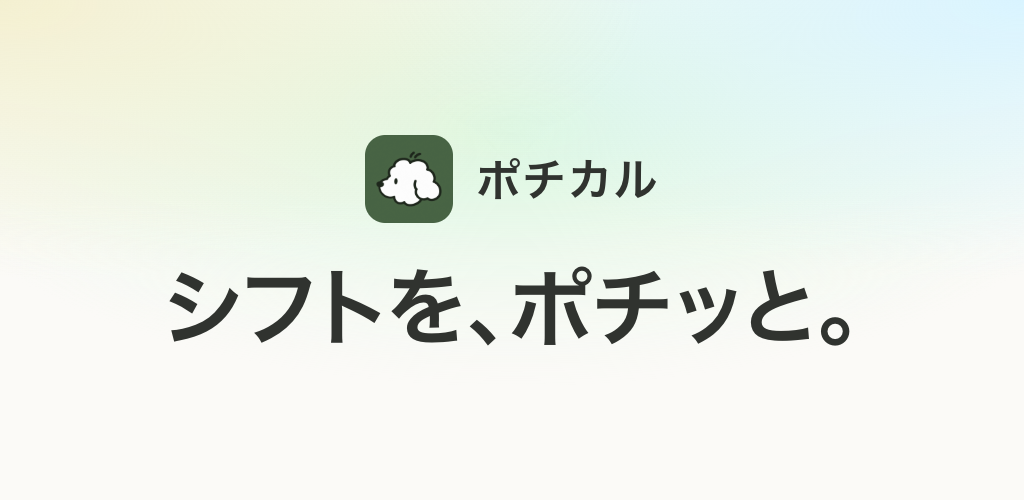
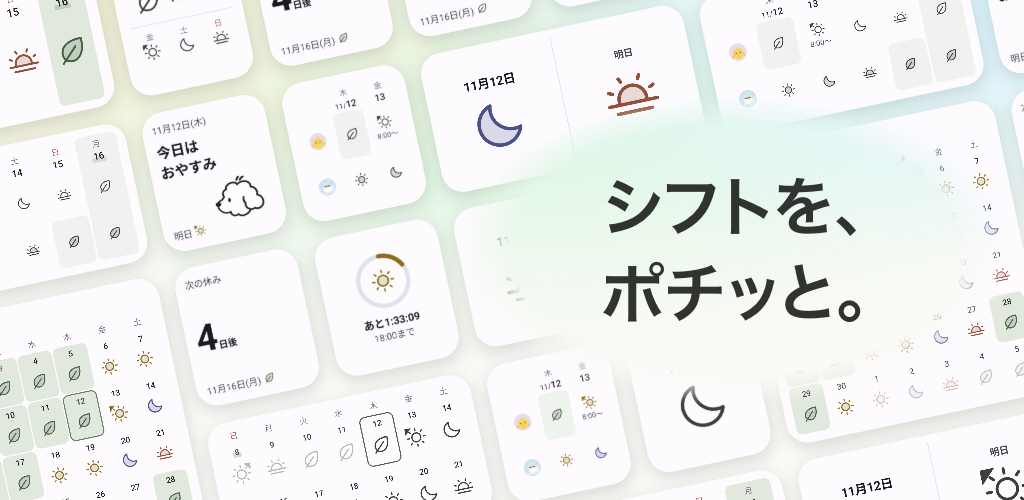
Google Play's feature graphic is the wall of widgets with the site's line, as the App Store's header is (#806)
One more of WALL_PICTURES, of Android's widgets; the page and the script
of its own that drew the icon over the line are gone.

diff --git a/apps/design/src/routes/_tool/[_]render/store-shot.tsx b/apps/design/src/routes/_tool/[_]render/store-shot.tsx
@@ -1,7 +1,6 @@
 import { ShiftMark } from "@pochical/prototype/components/shift-mark";
 import { presetPatterns } from "@pochical/prototype/lib/design-patterns";
 import {
-  FEATURE_GRAPHIC,
   HEADLINE,
   HEADLINE_SHARE,
   lineClearOf,
@@ -28,7 +27,6 @@ import { createFileRoute } from "@tanstack/react-router";
 
 import { pageMeta } from "../../../lib/page-meta";
 import {
-  PictureBrand,
   PictureSky,
   pictureTitle,
   pictureTitleStyle,
@@ -39,8 +37,8 @@ import {
 // rounded corners and no phone around it, on the site's sky under its
 // headline, at the size its store asks for
 // (@pochical/prototype's lib/store-shots.ts). `?store=ios&shot=entry`
-// names the picture, `shot=feature-graphic` Google Play's feature graphic,
-// and a picture drawn from the wall of widgets (WALL_PICTURES) goes by its
+// names the picture, and a picture drawn from the wall of widgets
+// (WALL_PICTURES), Google Play's feature graphic among them, goes by its
 // own name.
 // The screens are not in the app: the script answers /_render/store-raw/
 // with the files the platform's UI test photographed.
@@ -127,15 +125,6 @@ const styles = {
     position: "absolute",
     zIndex: 2,
   }),
-  feature: css({
-    alignItems: "center",
-    display: "flex",
-    flexDirection: "column",
-    gap: "28px",
-    justifyContent: "center",
-    position: "relative",
-  }),
-  featureTitle: css({ fontSize: "84px", position: "relative" }),
   headline: css({
     alignItems: "center",
     boxSizing: "border-box",
@@ -251,9 +240,6 @@ const styles = {
 
 function StoreShotPage() {
   const { callout, grounds, parts, shot: name, store } = Route.useSearch();
-  if (name === FEATURE_GRAPHIC.name) {
-    return <FeatureGraphic />;
-  }
   const wall = WALL_PICTURES.find((one) => one.name === name);
   if (wall !== undefined) {
     return <WallPicturePage picture={wall} />;
@@ -674,27 +660,6 @@ function WallPicturePage({ picture }: { picture: WallPicture }) {
           ))}
         </h1>
       )}
-    </div>
-  );
-}
-
-function FeatureGraphic() {
-  return (
-    <div
-      className={cx(styles.root, styles.feature)}
-      data-store-shot
-      style={{ height: FEATURE_GRAPHIC.height, width: FEATURE_GRAPHIC.width }}
-    >
-      <PictureSky height="100%" />
-      <div className={styles.featureTitle}>
-        <PictureBrand size={88} />
-      </div>
-      <h1
-        className={cx(pictureTitle, styles.featureTitle)}
-        style={pictureTitleStyle}
-      >
-        {FEATURE_GRAPHIC.line}
-      </h1>
     </div>
   );
 }

diff --git a/packages/prototype/src/lib/store-shots.ts b/packages/prototype/src/lib/store-shots.ts
@@ -25,15 +25,6 @@ export const STORES = {
 
 export type StoreId = keyof typeof STORES;
 
-// Google Play's feature graphic, which needs no screen: the sky, the app's
-// icon and its name over the site's line, in `store/feature-graphic.png`.
-export const FEATURE_GRAPHIC = {
-  height: 500,
-  line: "シフトを、ポチッと。",
-  name: "feature-graphic",
-  width: 1024,
-} as const;
-
 // How much of a picture's height its headline may take, with the room
 // around it: Google Play asks that a tagline take no more than about a
 // fifth of a screenshot, and the App Store's pictures keep to it too.
@@ -504,6 +495,14 @@ export const SITE_WALL = {
 // width would have it, laid four times side by side, the widgets marked
 // `whole` at the safe area's leading side and the site's own line beside
 // them.
+// Google Play's feature graphic is 1024 by 500, shown as narrow as a phone
+// and cut or covered at its edges and foot in some places, so Google asks
+// for what matters toward its middle, in no small letters:
+// https://support.google.com/googleplay/android-developer/answer/9866151
+// It is the header's picture at its own size, of Android's widgets: the
+// wall at half the size a store's picture of that width would have it,
+// laid twice side by side, so that a widget's shapes still read, and
+// `safe` the picture less 8 hundredths of each side.
 export const WALL_PICTURES = [
   SITE_WALL,
   {
@@ -519,6 +518,20 @@ export const WALL_PICTURES = [
     safe: { height: 653, left: 1101, top: 497, width: 1638 },
     store: "ios",
     width: 3840,
+  },
+  {
+    file: "store/feature-graphic.png",
+    height: 500,
+    lie: { across: 2, middle: [735, 224], unit: 5 },
+    line: {
+      middle: [735, 250],
+      size: 64,
+      words: ["シフトを、", "ポチッと。"],
+    },
+    name: "feature-graphic",
+    safe: { height: 420, left: 82, top: 40, width: 860 },
+    store: "android",
+    width: 1024,
   },
 ] as const satisfies readonly WallPicture[];
 

diff --git a/apps/design/tests/store-screenshots.test.ts b/apps/design/tests/store-screenshots.test.ts
@@ -3,7 +3,6 @@ import path from "node:path";
 
 import {
   calloutOf,
-  FEATURE_GRAPHIC,
   HEADLINE,
   HEADLINE_SHARE,
   STAGE_FOOT,
@@ -63,7 +62,9 @@ test("the pictures are of the sizes the stores ask for", () => {
   expect(width).toBeGreaterThanOrEqual(ASKED.side.least);
   expect(height).toBeLessThanOrEqual(ASKED.side.most);
   expect(height / width).toBeCloseTo(16 / 9);
-  expect(FEATURE_GRAPHIC).toMatchObject(ASKED.featureGraphic);
+  expect(pictures.find(({ name }) => name === "feature-graphic")).toMatchObject(
+    ASKED.featureGraphic
+  );
   expect(
     pictures.find(({ name }) => name === "product-page-header")
   ).toMatchObject(ASKED.productPageHeader);
@@ -84,7 +85,6 @@ test.each([
     file,
     size: { height, width },
   })),
-  { file: `store/${FEATURE_GRAPHIC.name}.png`, size: FEATURE_GRAPHIC },
 ])(
   "$file is drawn at its size, with no alpha channel",
   async ({ file, size }) => {
@@ -121,8 +121,7 @@ test.each(STORE_SHOTS.map(({ headline, name }) => ({ headline, name })))(
 );
 
 // Every word a picture is drawn with: the headlines, the tiles' words and
-// their pieces', the lines of the pictures drawn from the wall, and the
-// feature graphic's.
+// their pieces', and the lines of the pictures drawn from the wall.
 const words = [
   ...STORE_SHOTS.flatMap((shot) => [
     ...shot.headline,
@@ -143,7 +142,6 @@ const words = [
       : []),
   ]),
   ...pictures.flatMap(({ line }) => line?.words ?? []),
-  FEATURE_GRAPHIC.line,
 ];
 
 test.each(unsaid)("no picture says %s", (word) => {

diff --git a/apps/design/scripts/store-images.ts b/apps/design/scripts/store-images.ts
@@ -7,14 +7,13 @@ import { fileURLToPath } from "node:url";
 // (`mise run store:shots:ios`, `mise run store:shots:android`): each shot of @pochical/prototype's
 // lib/store-shots.ts from /_render/store-shot into
 // store/screenshots/<store>, each picture drawn from the wall of widgets
-// (WALL_PICTURES) into its own file, and Google Play's feature graphic
-// into store/feature-graphic.png, on a dev server of its own. A store
+// (WALL_PICTURES), Google Play's feature graphic among them, into its own
+// file, on a dev server of its own. A store
 // whose screens are not there is left as it is, and so are the pictures
 // drawn from its widgets. Run again after changing the
 // page or the shots: pnpm run image:store
 import {
   calloutOf,
-  FEATURE_GRAPHIC,
   HEADLINE_SHARE,
   PIECES_TALL,
   STORE_SHOTS,
@@ -223,10 +222,5 @@ await photographDevServer(
         );
       }
     }
-    await photograph(
-      { shot: FEATURE_GRAPHIC.name },
-      FEATURE_GRAPHIC,
-      path.join(OUTPUT, `${FEATURE_GRAPHIC.name}.png`)
-    );
   }
 );

diff --git a/AGENTS.md b/AGENTS.md
@@ -14,7 +14,7 @@ Pochical is a monorepo: native SwiftUI (`apps/ios`) and Jetpack Compose (`apps/a
   - ライセンス's list of libraries is generated by each app's build, never checked in (spec/calendar.md, ライセンス): on iOS by LicenseList's build plugin from the resolved Swift packages' checkouts (`PLL_SOURCE_PACKAGES_PATH` names them when `-clonedSourcePackagesDirPath` moves them, as CI's `ios` job does), on Android by AboutLibraries' Gradle plugin into each variant's `res/raw/aboutlibraries.json`, with what the app carries besides its dependencies in `apps/android/app/aboutlibraries/libraries`.
   - Icons: the marks' paths from Phosphor via `pnpm --dir design icon:marks`; the iOS app icons and the widgets' `PeekingPoodle` via `pnpm --dir packages/prototype icon:ios`, and Android's launcher icon (its `mipmap` layers and the background color) and the Play listing's 512-pixel icon (`apps/android/app/src/main/ic_launcher-playstore.png`) and the widgets' `widget_poodle` via `icon:android`, both painting with `scripts/app-icon.ts` as the site icon's `icon:site` does.
   - try's installable app (`apps/try/public/app`): the icons, iOS's launch images and the web app manifest via `pnpm --dir apps/try icon:app` (`scripts/app-assets.ts`), and the manifest's screenshots, the screens `src/lib/app-screenshots.ts` names, via `image:screens`, which photographs the app on a dev server of its own as apps/design's `image:share` photographs the share image, both through `@pochical/prototype`'s `scripts/photograph.ts`. A change to that list runs both.
-  - The stores' pictures (`store/screenshots/<store>`, Google Play's feature graphic, `store/feature-graphic.png`, and the App Store's product page header, `store/product-page-header.png`): the shots, their headlines and each store's size in `@pochical/prototype`'s `lib/store-shots.ts` → `ANDROID_SERIAL=emulator-<port> mise run store:screenshots`. It photographs the real apps' screens into `.build/store-screenshots/<store>`, under the same names on both platforms, each against a server it starts and `tools/store-screenshots/seed.ts` seeds with two groups made by one piece, the coworkers' and a group of friends, each person's photo one of the faces' drawings (`design/src/drawings`) (`store:shots:android`: `StoreScreenshots` on the running emulator `ANDROID_SERIAL` names, never a phone, the widgets drawn there by themselves from the app's own days; `store:shots:ios`: `StoreScreenshotTests` in a simulator of its own and no other, `pochical-store`, an iPhone 18 Pro Max, the run failing when a simulator of the name is another device, the widgets put on its Home Screen), then draws each on the site's sky under its headline (`store:images`: apps/design's `image:store`, which photographs `/_render/store-shot` as `image:share` does the share image, for each store whose screens are there). The seed runs beside the capture: it makes the groups, writes their invitations, and writes the coworkers' chat only once the person photographed has joined, so the chat says every joining above its lines, and more lines than a screen holds keep them out of the picture, among them two photographs sent at once (`tools/store-screenshots/photos`, whose README names where each is from; a JPEG put there under the same name is sent in its place); the capture reads the chat to its latest line, opens it again, and photographs it there. The status bar says 9:41 in every picture, whenever the run is, and the chat's lines the time they were written; Android's is SystemUI's demo, entered once the emulator is on its Wi-Fi, as one entered in the seconds after a boot shows a second Wi-Fi icon to its end. Every look is set through the app's own settings: a raw file or folder named `-sumi` is in black and white (テーマ 墨, シフトの色 ワントーン, シフトの見た目 線, 休みの見せ方 印だけ, 色をつける日 off), one named `-letters` has the shifts as letters (シフトの見た目 文字, テーマ ソーダ), the rest as the app starts. The wall of widgets is placed by hand (the shot's `tiles`: which widget, in which look, in which cell of `WALL`), from every kind at each size it has for a Home Screen, those that can be set to someone set to a person and to the group too, and those today's shift changes on each of the sample's (a day off, 日勤, 夜勤, 明け: the capture enters it for today in ポチポチ入力 and photographs them in both looks before it enters the next), in the app's look and in 墨: medium and large widgets carry it, small ones are its accents. 次の休み counting to a day off, 次の休み on a day off and いまのシフト are marked `whole` and stand together where the eye lands, whole in each store's picture and in what every picture drawn from the wall shows on every device; no picture is beside itself. Entering a shift takes a day's own hours off it (早出, 残業) and 夜勤 gives the day after its 明け, and nothing is put back: every picture of the month is taken before the widgets, ポチポチ入力's among them, whose days taken out are entered again by the tray's keys and the month checked to say what it did before; the widgets' shifts go in the order that leaves each the days it shows as the sample has them. いまのシフト draws its ring only while a shift is on, so after the widgets a run enters one of the sample's shifts that is on at that hour and photographs that widget again, in the app's look, once it says the shift is on (before 9:00 that shift is the day before's 夜勤, which the month's page has no day for on the 1st: the run is not started then, and says to run from 9:00). A widget is photographed once it says the days it is to show (iOS; Android draws it from what the app holds then), and a run fails when a widget asked for is not there, when the seed's last checks fail, when the port already has a server, or when the emulator's settings are not all put back. The friends' group is joined as まい with ひよこ picked for a face, in place of the drawing a new person is given at random, and the coworkers' as 佐藤, there alone. A shot of one screen may lift the part its headline is about (its `callout`): the capture measures that part by its element, and every piece of the screen that says something, into `<raw>.json` (on Android as Compose lays them out, the accessibility tree giving a button smaller than a finger the larger place it takes touches in), and the picture draws the part again, larger (as large as keeps a row as wide as the screen inside the picture and the card as far over the phone's foot as the phone is over the picture's, 1.35 times at most), on a card over the phone that starts where the part does and grows down from there, what leads to the part left in sight over it; a piece the card would lie over a part of, on any side, it takes in whole, so nothing shows cut beside it, and the part is drawn in the card's middle, whole lines of the screen with their own room. The friends' table lifts the days everyone is off, the chat its poll's line with the line that asks for it, 端末カレンダーに追加 its 自動で反映. The details' shot and the cares' are three tiles each, within where a phone is under the headline, the room they leave shared evenly between them up to the most a gap may be and the rest left over and under them alike, a tile a card of the picture's with room inside it, on the ground of what it holds: a part of a screen its platform's UI test cuts at whole rows, from the top of one of the screen's own pieces to the foot of another, or pieces the page draws from the app's own marks, larger than a screen has them, with words and lines of the picture's that say what happens (the shot's `pieces`). Each tile holds only what makes its point. A part's file is named for what it is (`tile-<what>.png`), not for the shot it is in. The details', how a roster itself is: two weeks of 繰り返しを直す on a fixed cycle, a run's last step but one as it changes the job, to the ready-made 当番・非番・休み from next month's 1st, 当番 and 休み then named 当務 and 週休; the first week of a page of a シフトの期間 from the 15th under its heading, set in 設定 and put back; and a day of 早出 and one of 残業 with their marks' corners named, drawn. The cares', what the app does for the person: 夜勤's key pressed and the two days it fills, the second the app's doing, drawn; リマインド's reminder of the evening before, the next notification as its page draws it, before anything is changed; and グループの設定's rows of a group with an end, 忘年会, made in グループを作る with the day 終了日をつける offers, a run's very last step as it leaves a group. The wall is drawn in other pictures too, the list `WALL_PICTURES`: each its name, size, file, the store whose widgets it shows, where the wall lies in it (`lie`, as in a store's picture without), the line it carries (`line`, the wall clearing to the sky around it, none without) and the part of it every device shows (`safe`, which holds the line and the widgets marked `whole`, anywhere without). The App Store's product page header is the first: the wall across 3840×1646, the site's line beside the three widgets, both inside the art safe area measured from Apple's template. A change to that page or to a headline runs `store:images` alone, the screens still in `.build`; a change to an app's screens runs its `store:shots:*` and `store:images`.
+  - The stores' pictures (`store/screenshots/<store>`, Google Play's feature graphic, `store/feature-graphic.png`, and the App Store's product page header, `store/product-page-header.png`): the shots, their headlines and each store's size in `@pochical/prototype`'s `lib/store-shots.ts` → `ANDROID_SERIAL=emulator-<port> mise run store:screenshots`. It photographs the real apps' screens into `.build/store-screenshots/<store>`, under the same names on both platforms, each against a server it starts and `tools/store-screenshots/seed.ts` seeds with two groups made by one piece, the coworkers' and a group of friends, each person's photo one of the faces' drawings (`design/src/drawings`) (`store:shots:android`: `StoreScreenshots` on the running emulator `ANDROID_SERIAL` names, never a phone, the widgets drawn there by themselves from the app's own days; `store:shots:ios`: `StoreScreenshotTests` in a simulator of its own and no other, `pochical-store`, an iPhone 18 Pro Max, the run failing when a simulator of the name is another device, the widgets put on its Home Screen), then draws each on the site's sky under its headline (`store:images`: apps/design's `image:store`, which photographs `/_render/store-shot` as `image:share` does the share image, for each store whose screens are there). The seed runs beside the capture: it makes the groups, writes their invitations, and writes the coworkers' chat only once the person photographed has joined, so the chat says every joining above its lines, and more lines than a screen holds keep them out of the picture, among them two photographs sent at once (`tools/store-screenshots/photos`, whose README names where each is from; a JPEG put there under the same name is sent in its place); the capture reads the chat to its latest line, opens it again, and photographs it there. The status bar says 9:41 in every picture, whenever the run is, and the chat's lines the time they were written; Android's is SystemUI's demo, entered once the emulator is on its Wi-Fi, as one entered in the seconds after a boot shows a second Wi-Fi icon to its end. Every look is set through the app's own settings: a raw file or folder named `-sumi` is in black and white (テーマ 墨, シフトの色 ワントーン, シフトの見た目 線, 休みの見せ方 印だけ, 色をつける日 off), one named `-letters` has the shifts as letters (シフトの見た目 文字, テーマ ソーダ), the rest as the app starts. The wall of widgets is placed by hand (the shot's `tiles`: which widget, in which look, in which cell of `WALL`), from every kind at each size it has for a Home Screen, those that can be set to someone set to a person and to the group too, and those today's shift changes on each of the sample's (a day off, 日勤, 夜勤, 明け: the capture enters it for today in ポチポチ入力 and photographs them in both looks before it enters the next), in the app's look and in 墨: medium and large widgets carry it, small ones are its accents. 次の休み counting to a day off, 次の休み on a day off and いまのシフト are marked `whole` and stand together where the eye lands, whole in each store's picture and in what every picture drawn from the wall shows on every device; no picture is beside itself. Entering a shift takes a day's own hours off it (早出, 残業) and 夜勤 gives the day after its 明け, and nothing is put back: every picture of the month is taken before the widgets, ポチポチ入力's among them, whose days taken out are entered again by the tray's keys and the month checked to say what it did before; the widgets' shifts go in the order that leaves each the days it shows as the sample has them. いまのシフト draws its ring only while a shift is on, so after the widgets a run enters one of the sample's shifts that is on at that hour and photographs that widget again, in the app's look, once it says the shift is on (before 9:00 that shift is the day before's 夜勤, which the month's page has no day for on the 1st: the run is not started then, and says to run from 9:00). A widget is photographed once it says the days it is to show (iOS; Android draws it from what the app holds then), and a run fails when a widget asked for is not there, when the seed's last checks fail, when the port already has a server, or when the emulator's settings are not all put back. The friends' group is joined as まい with ひよこ picked for a face, in place of the drawing a new person is given at random, and the coworkers' as 佐藤, there alone. A shot of one screen may lift the part its headline is about (its `callout`): the capture measures that part by its element, and every piece of the screen that says something, into `<raw>.json` (on Android as Compose lays them out, the accessibility tree giving a button smaller than a finger the larger place it takes touches in), and the picture draws the part again, larger (as large as keeps a row as wide as the screen inside the picture and the card as far over the phone's foot as the phone is over the picture's, 1.35 times at most), on a card over the phone that starts where the part does and grows down from there, what leads to the part left in sight over it; a piece the card would lie over a part of, on any side, it takes in whole, so nothing shows cut beside it, and the part is drawn in the card's middle, whole lines of the screen with their own room. The friends' table lifts the days everyone is off, the chat its poll's line with the line that asks for it, 端末カレンダーに追加 its 自動で反映. The details' shot and the cares' are three tiles each, within where a phone is under the headline, the room they leave shared evenly between them up to the most a gap may be and the rest left over and under them alike, a tile a card of the picture's with room inside it, on the ground of what it holds: a part of a screen its platform's UI test cuts at whole rows, from the top of one of the screen's own pieces to the foot of another, or pieces the page draws from the app's own marks, larger than a screen has them, with words and lines of the picture's that say what happens (the shot's `pieces`). Each tile holds only what makes its point. A part's file is named for what it is (`tile-<what>.png`), not for the shot it is in. The details', how a roster itself is: two weeks of 繰り返しを直す on a fixed cycle, a run's last step but one as it changes the job, to the ready-made 当番・非番・休み from next month's 1st, 当番 and 休み then named 当務 and 週休; the first week of a page of a シフトの期間 from the 15th under its heading, set in 設定 and put back; and a day of 早出 and one of 残業 with their marks' corners named, drawn. The cares', what the app does for the person: 夜勤's key pressed and the two days it fills, the second the app's doing, drawn; リマインド's reminder of the evening before, the next notification as its page draws it, before anything is changed; and グループの設定's rows of a group with an end, 忘年会, made in グループを作る with the day 終了日をつける offers, a run's very last step as it leaves a group. The wall is drawn in other pictures too, the list `WALL_PICTURES`: each its name, size, file, the store whose widgets it shows, where the wall lies in it (`lie`, as in a store's picture without), the line it carries (`line`, the wall clearing to the sky around it, none without) and the part of it every device shows (`safe`, which holds the line and the widgets marked `whole`, anywhere without). The App Store's product page header is the first: the wall across 3840×1646, the site's line beside the three widgets, both inside the art safe area measured from Apple's template. Google Play's feature graphic is the second, of Android's widgets: the wall across 1024×500 at twice the header's size for its width, so a widget's shapes read as narrow as a phone shows it, the line and the three widgets clear of 8 hundredths of each side, which Play cuts or covers in places. A change to that page or to a headline runs `store:images` alone, the screens still in `.build`; a change to an app's screens runs its `store:shots:*` and `store:images`.
   - Workers' types: each Worker's `wrangler.jsonc` and the wrangler in `pnpm-lock.yaml`, with the workerd it pins → `mise run gen:worker-types`, which runs every workspace's `cf-typegen` (into `worker-configuration.d.ts` in `apps/server`, `apps/admin` and `apps/web`). A wrangler bump regenerates them too; CI runs `mise run worker-types:check`. A Worker with a `cf-typegen` and no secrets still declares `"secrets": { "required": [] }`, so its types never come from a computer's `.dev.vars` or `.env`.
   - SQL schemas are Drizzle and their migrations are generated, never written: D1 `apps/server/src/db/schema.ts` (`mise run db:generate -- --name <what>`; better-auth's tables via `mise run auth:schema` first), the Group DO `group-do-schema.ts` (`mise run group-do:generate`), the User DO `user-do-schema.ts` (`mise run user-do:generate`). CI runs `mise run db:check`.
 - The stores' listings are in `store/` (`store/README.md`): the texts of the App Store and Google Play, and the answers to their forms (`declarations.md`), entered into App Store Connect and Play Console by hand. `apps/design`'s tests hold each text to its store's limit; an answer changes in the PR that changes what the app does.

diff --git a/store/README.md b/store/README.md
@@ -31,6 +31,8 @@ They are drawn from the real apps, in the listing's order, and never edited by h
 
 The App Store's product page header (iOS 27) is drawn with them, from the wall of widgets of the second screenshot (`WALL_PICTURES` in the same file): the wall across the whole picture, and the site's line, シフトを、ポチッと。, beside the three widgets the wall is built around. Devices crop the header to no less than its art safe area, the rectangle in the middle that [Apple's template](https://developer.apple.com/app-store/asset-best-practices/) draws, so the line and those widgets are inside it and the rest is the wall running off. It carries no price, address or other platform's name, as [Apple asks](https://developer.apple.com/help/app-store-connect/reference/app-information/creative-assets-specifications). The search results' picture (3:2) is not made: search shows the first three screenshots in its place.
 
+Google Play's feature graphic is the same picture at its own size, of Android's widgets: the wall across 1024×500, larger and fewer so that a widget's shapes read on a phone, the line in two rows and the three widgets beside it. Play cuts or covers the graphic's edges and foot in some places, so both are in its middle, clear of 8 hundredths of each side, and it carries no app icon, badge, price or rank, as [Google asks](https://support.google.com/googleplay/android-developer/answer/9866151).
+
 `declarations.md` holds the answers to the forms beside the listing: what data is collected, the ratings' questions, the notes for review.
 
 ## What the words keep to
